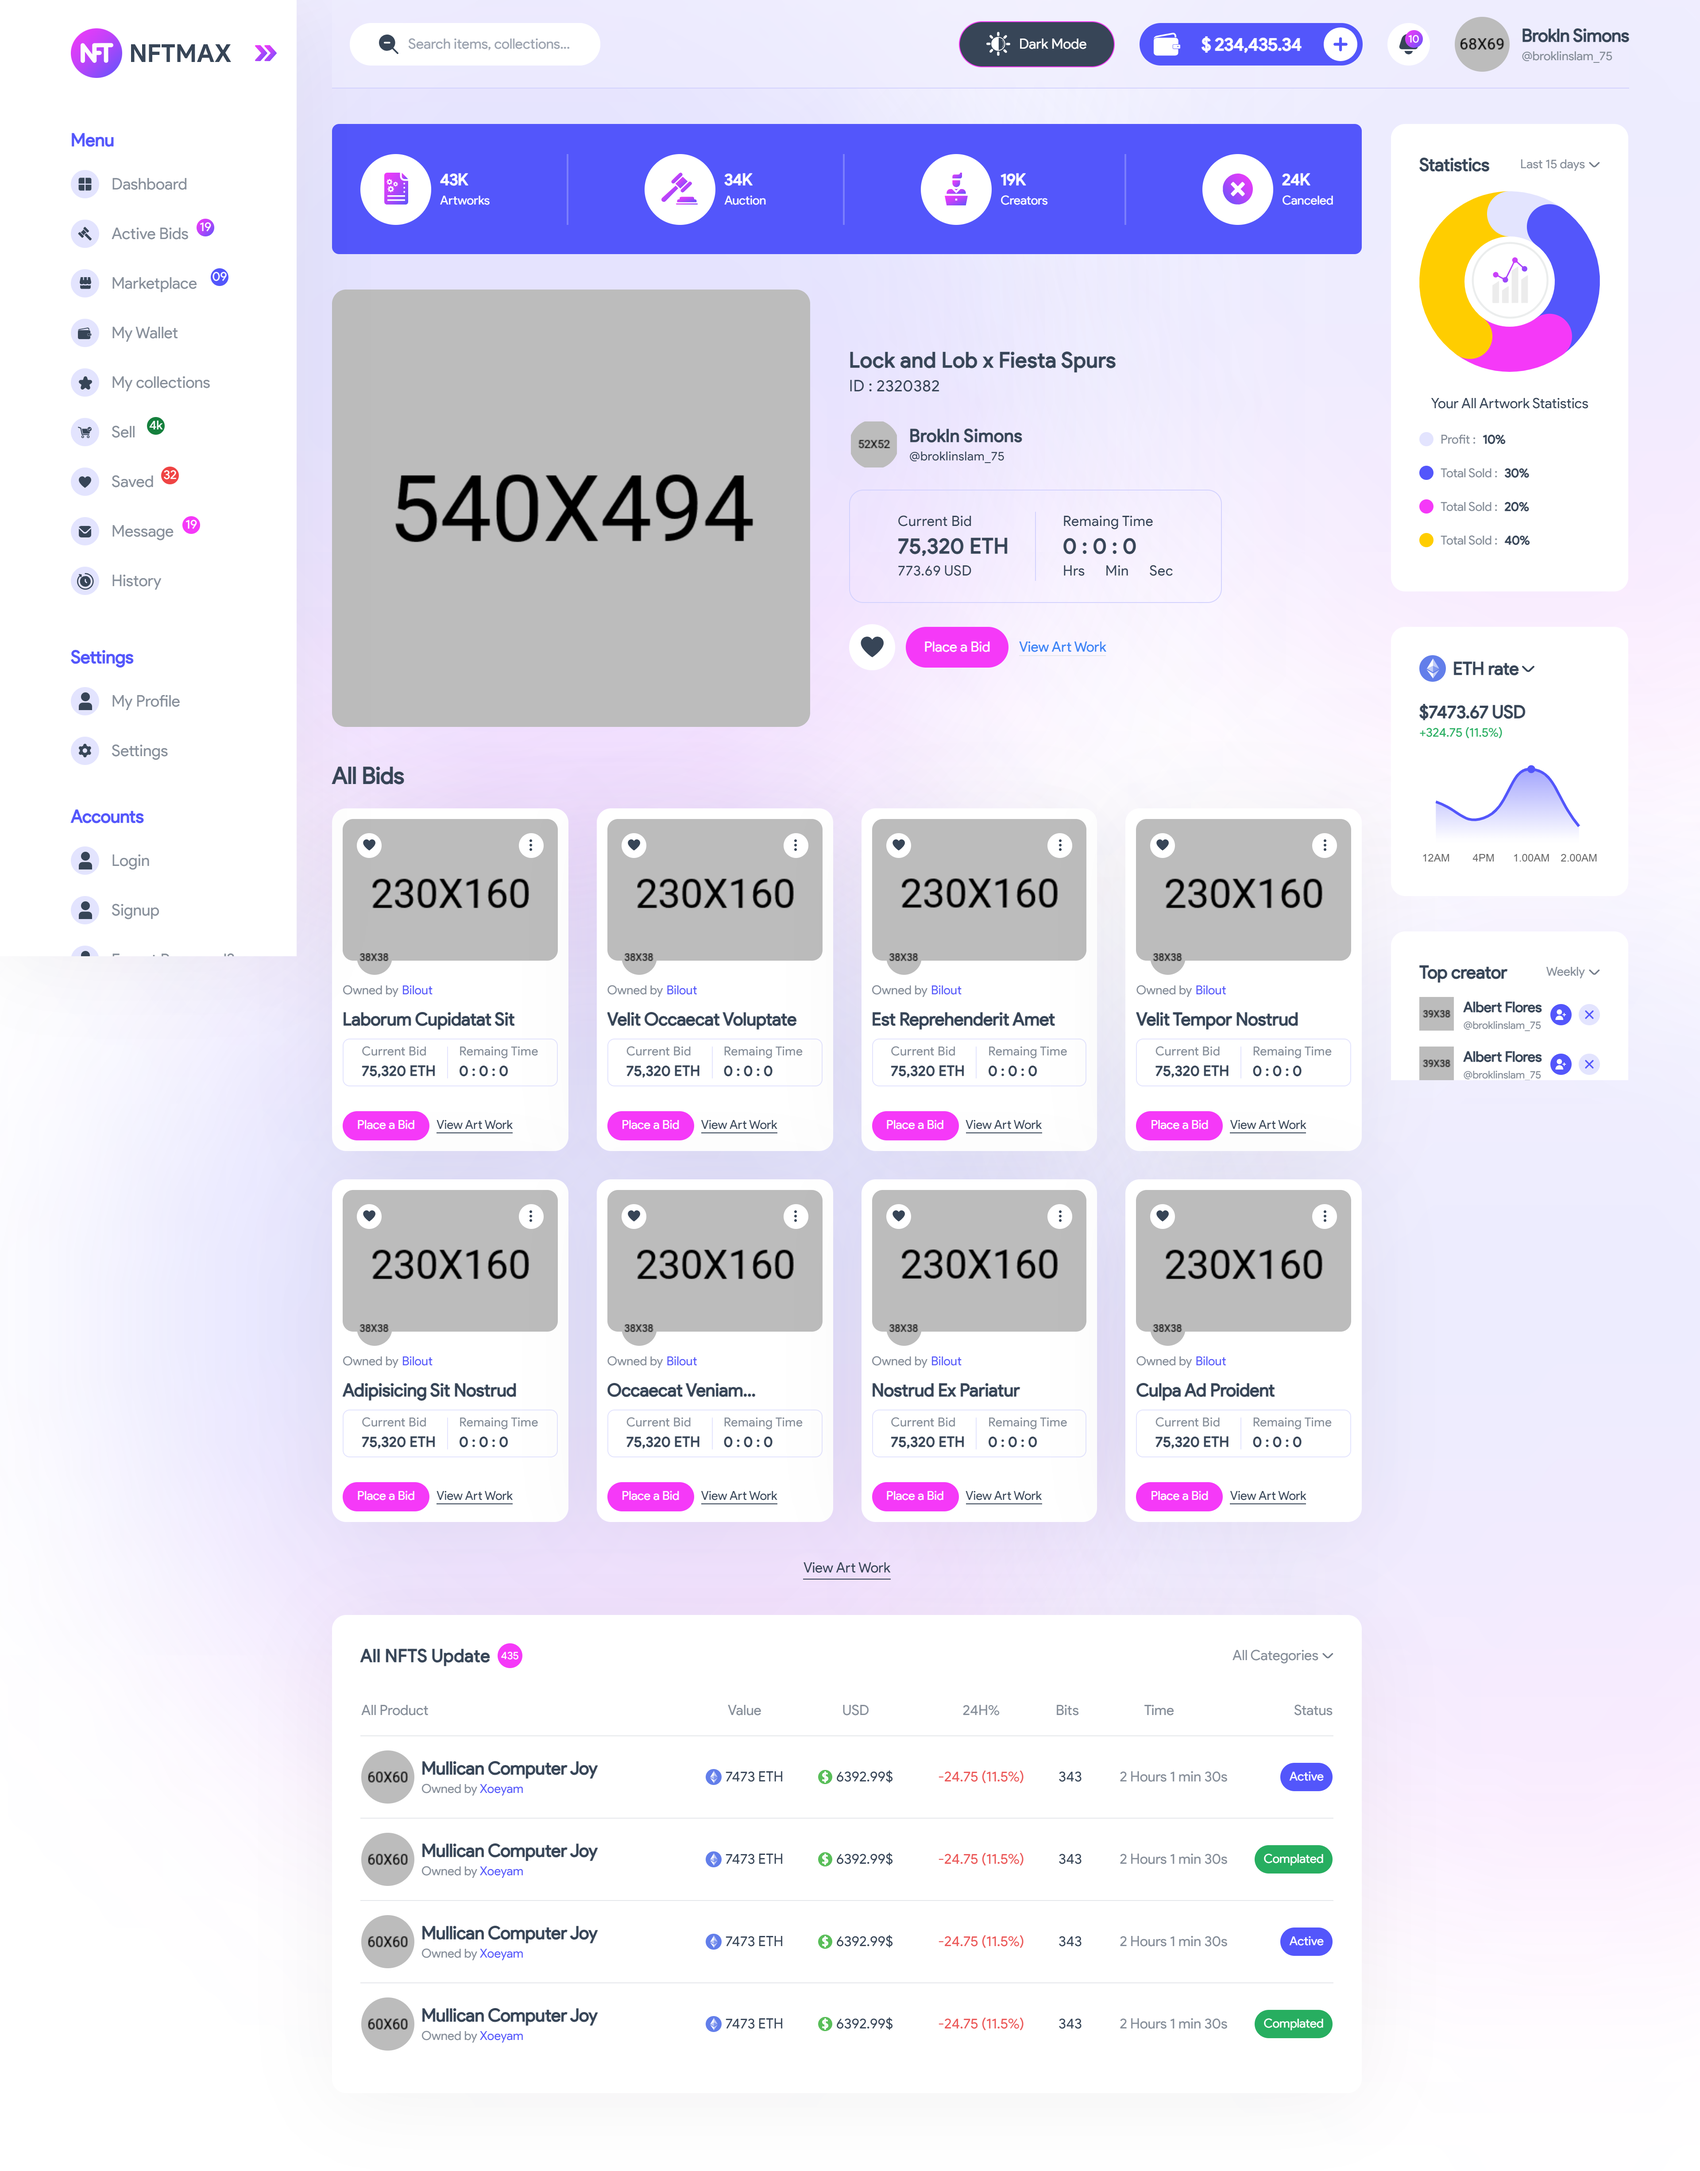
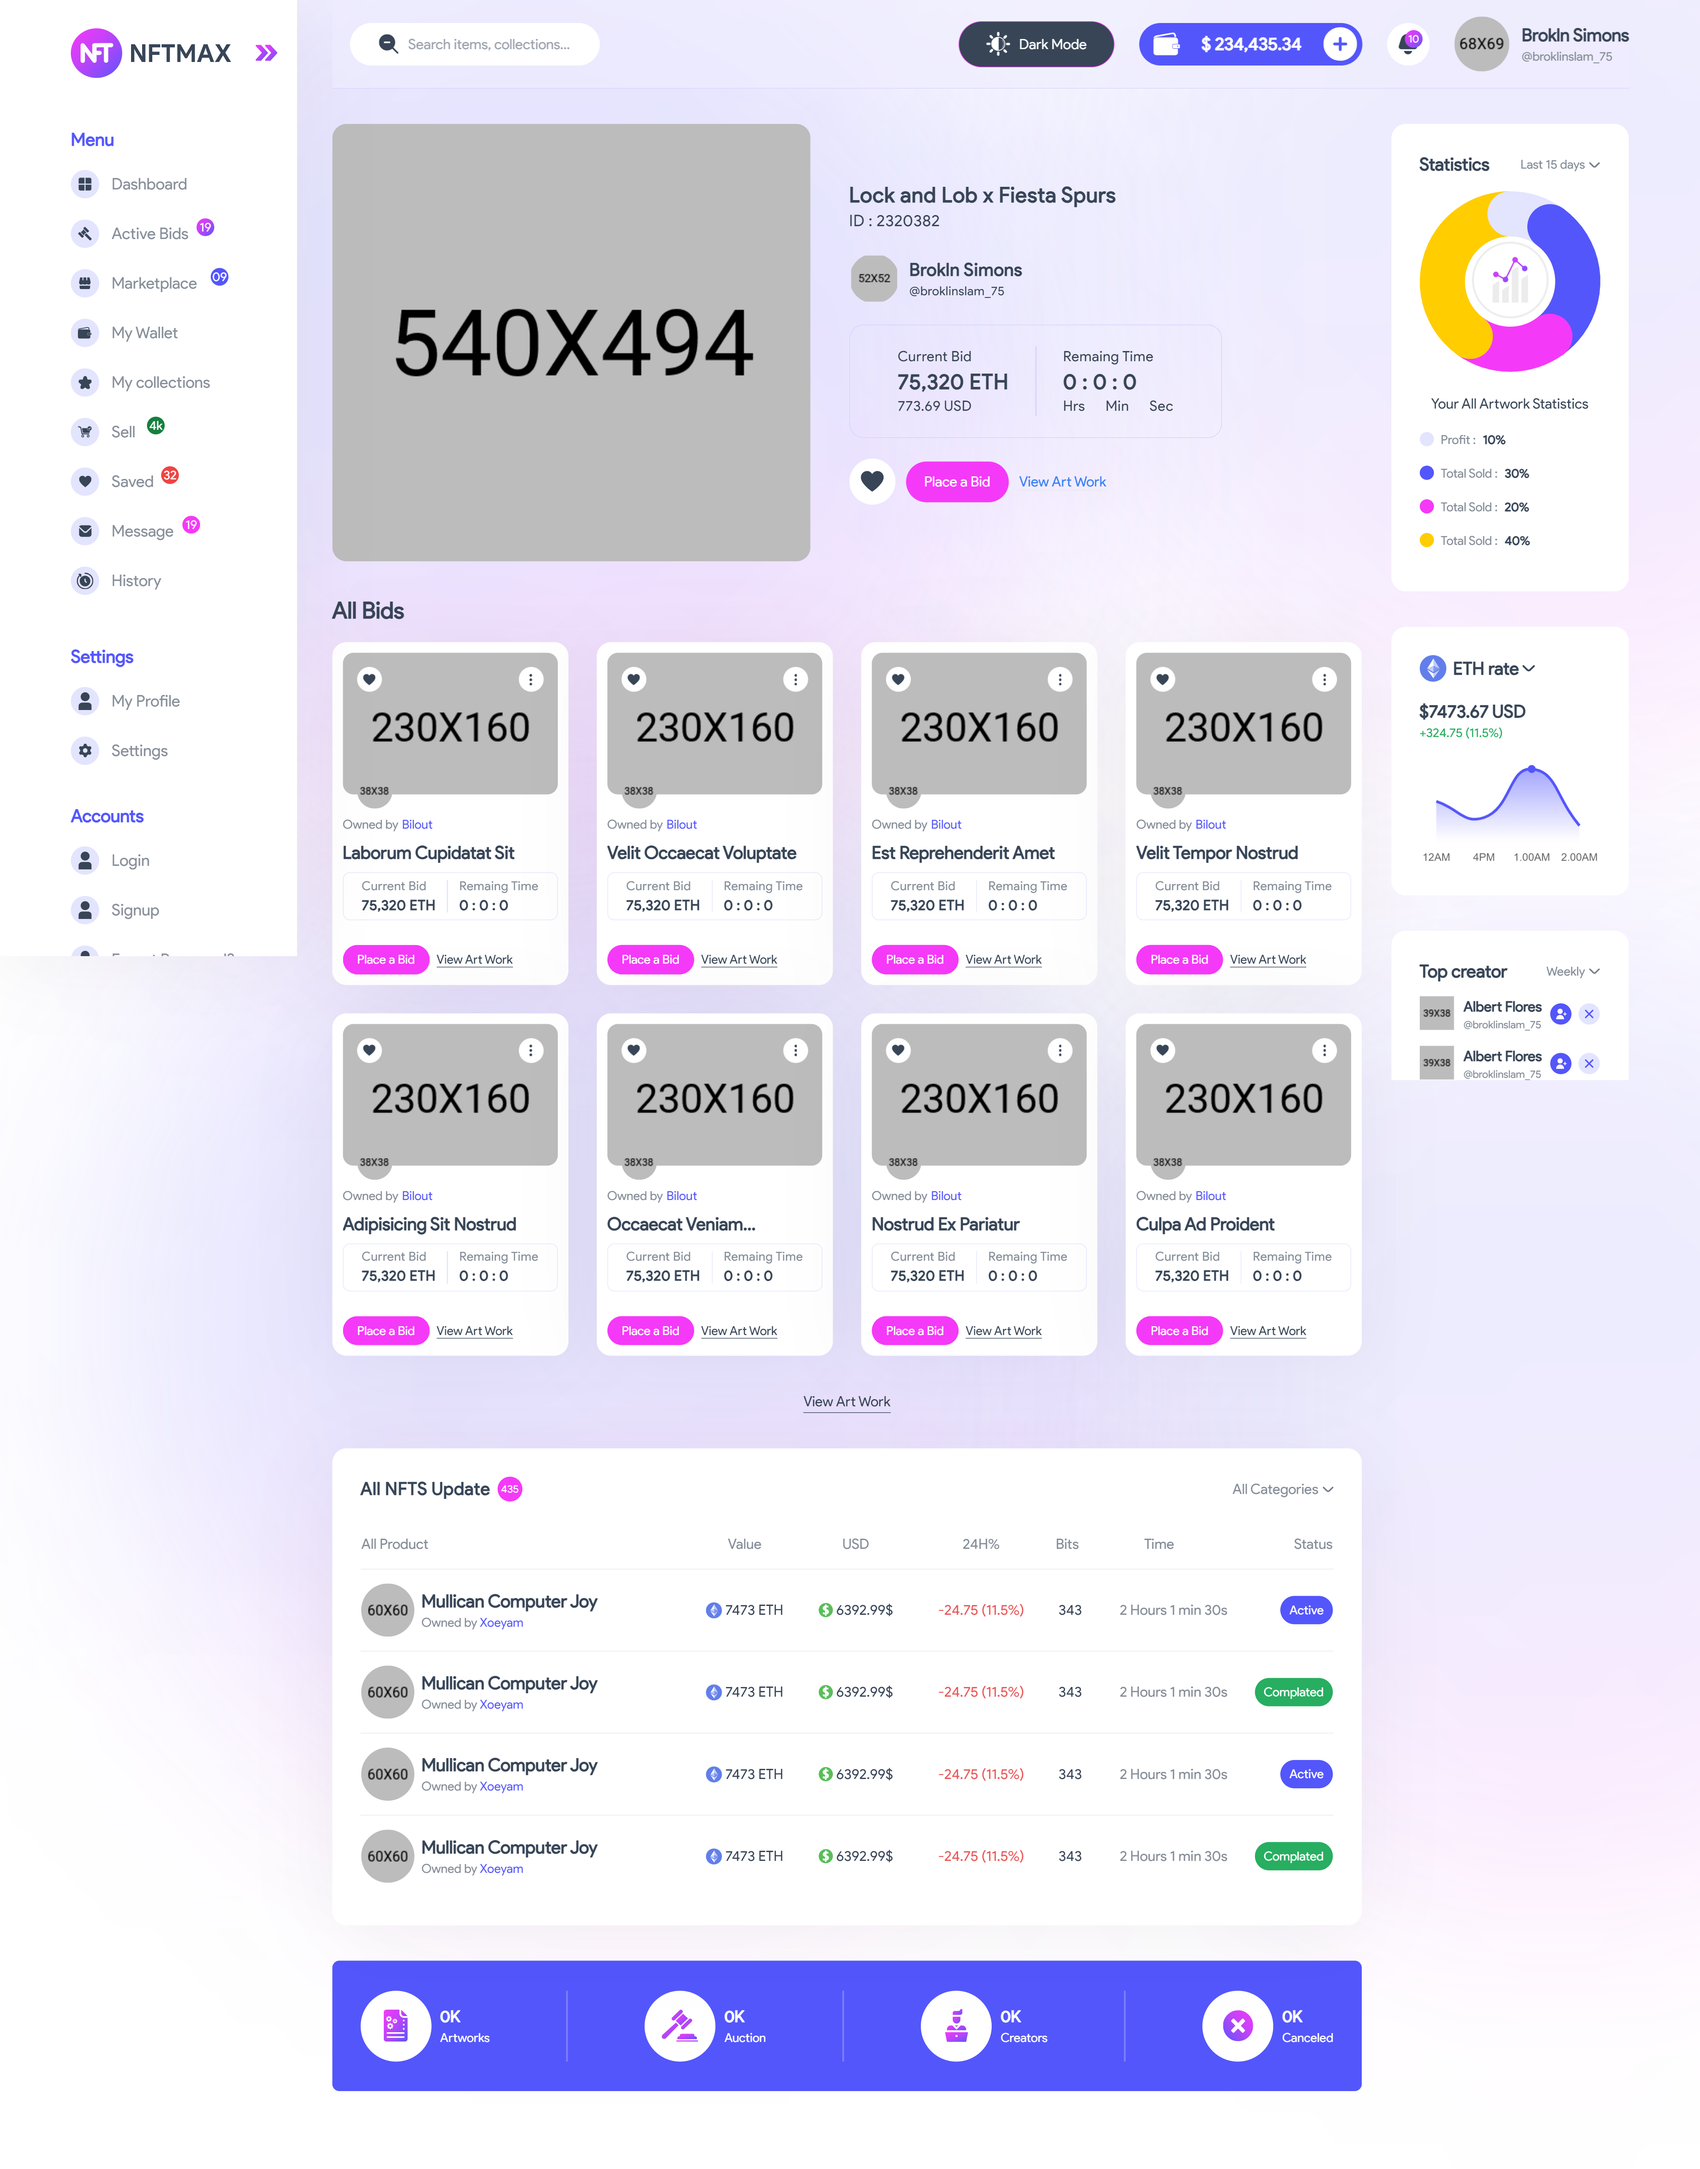
augdone

diff --git a/src/pages/ActiveBids/index.jsx b/src/pages/ActiveBids/index.jsx
@@ -9,10 +9,10 @@ export default function ActiveBids() {
   const allBids = datas.datas;
   return (
     <>
-        <CounterSection className="mb-10" />
-        <OverviewSection className="mb-10" />
-        <AllBidsSection allBids={allBids} className="mb-10" />
-        <UpdateTable className="mb-10" />
+      <OverviewSection className="mb-10" />
+      <AllBidsSection allBids={allBids} className="mb-10" />
+      <UpdateTable className="mb-10" />
+      <CounterSection className="mb-10" />
     </>
   );
 }

diff --git a/src/pages/ActiveBids/CounterSection.jsx b/src/pages/ActiveBids/CounterSection.jsx
@@ -10,7 +10,6 @@ export default function CounterSection({ className }) {
       >
         <div className="counter-section-wrapper w-full flex flex-col justify-center bg-purple sm:h-[147px] rounded-lg px-8 py-5 sm:py-0">
           <div className="sm:flex justify-between">
-            {/* artworkd */}
             <div className="flex items-center space-x-2.5 mb-2 sm:mb-0">
               <div className="w-20 h-20 flex justify-center items-center bg-white    rounded-full">
                 <svg
